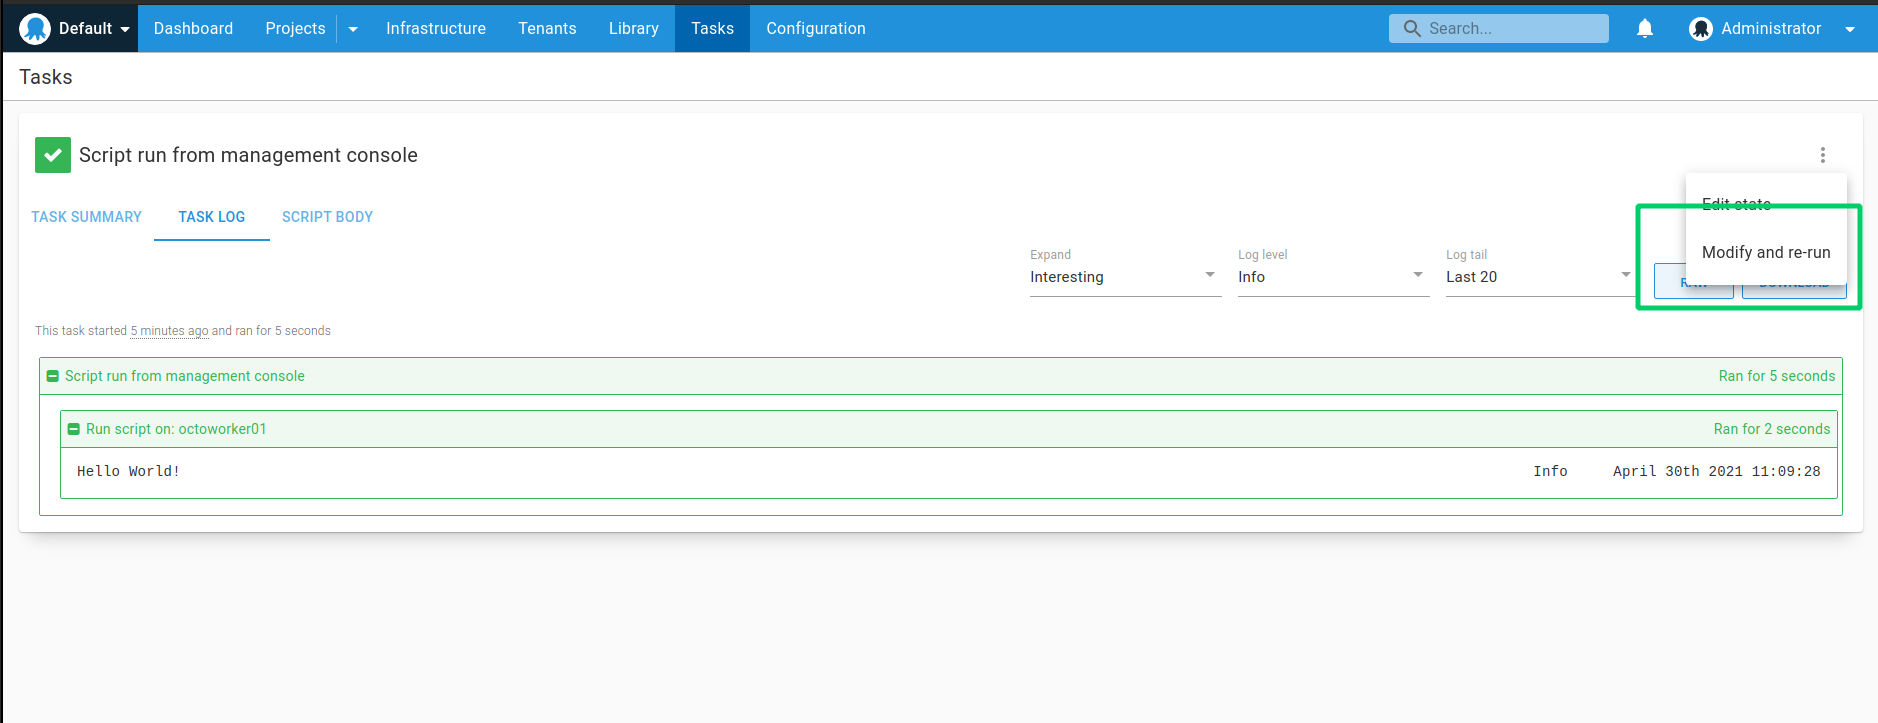
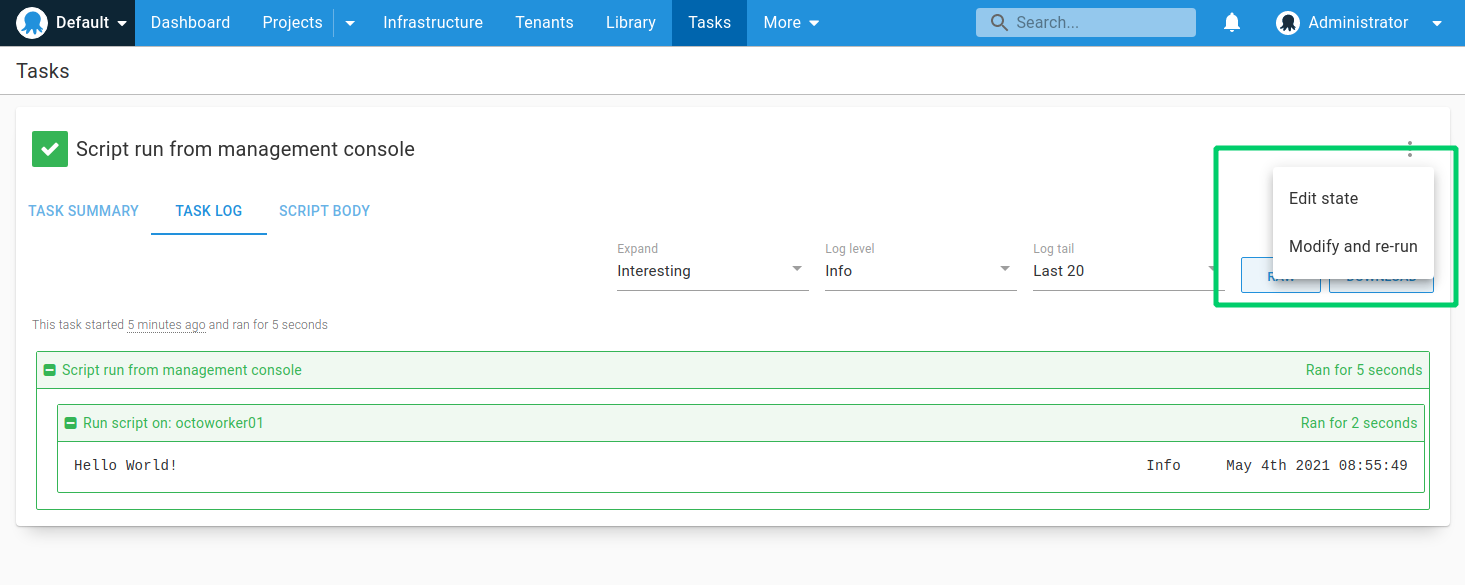
Recreate script console audit image and focus other ones

diff --git a/docs/administration/managing-infrastructure/script-console.md b/docs/administration/managing-infrastructure/script-console.md
@@ -78,4 +78,4 @@ Sometimes you might like to collect files from each of the machines as part of y
 
 Besides making it easy to run a script on many servers, the other advantage of using the Script Console is auditing. Ad-hoc scripts run via the Script Console will appear in the [Audit](/docs/security/users-and-teams/auditing.md) tab in the Configuration area.
 
-![](images/3277919.png "width=500")
+![](images/script-console-audit.png "width=500")
